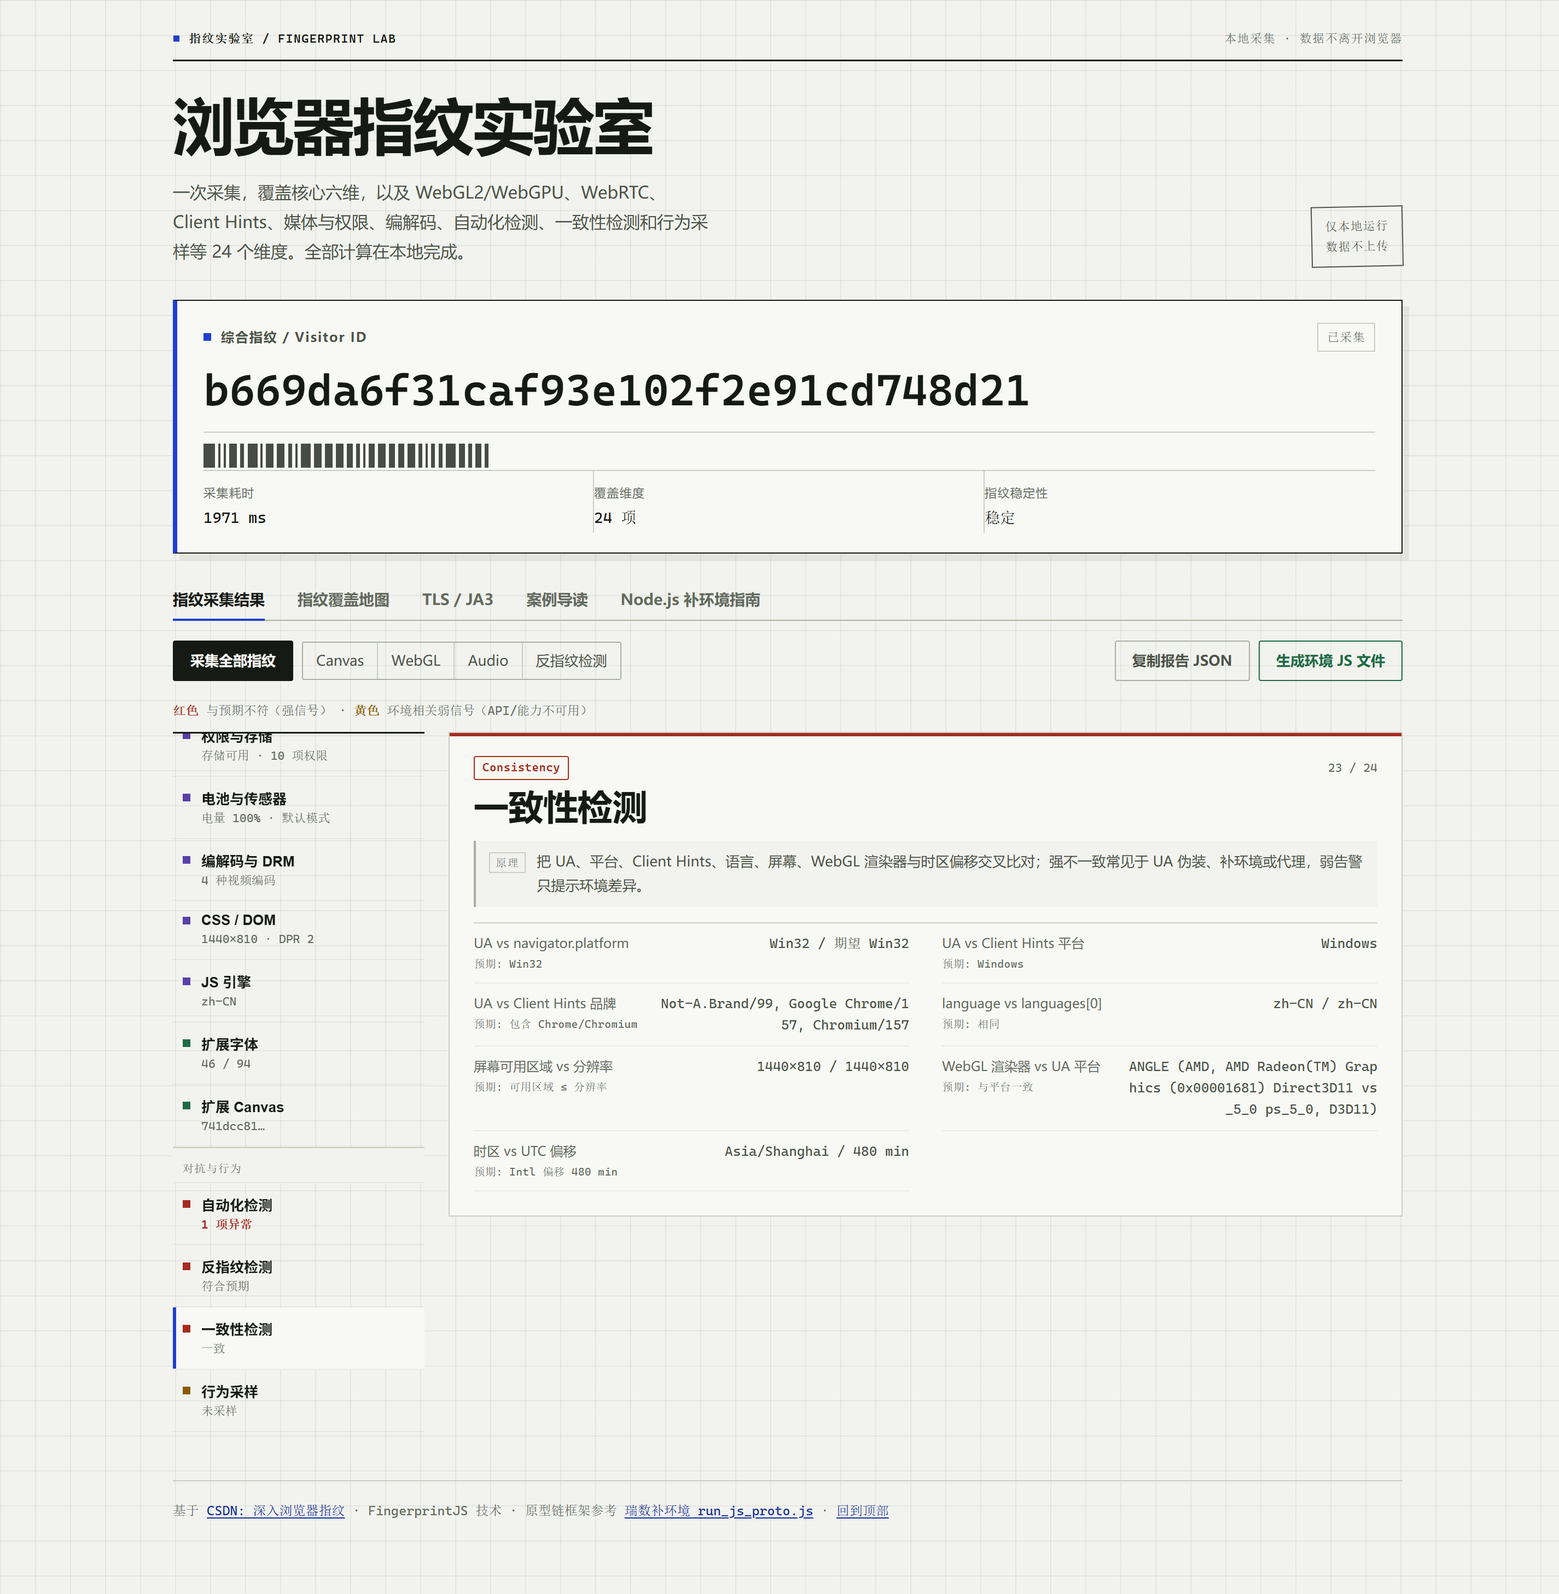
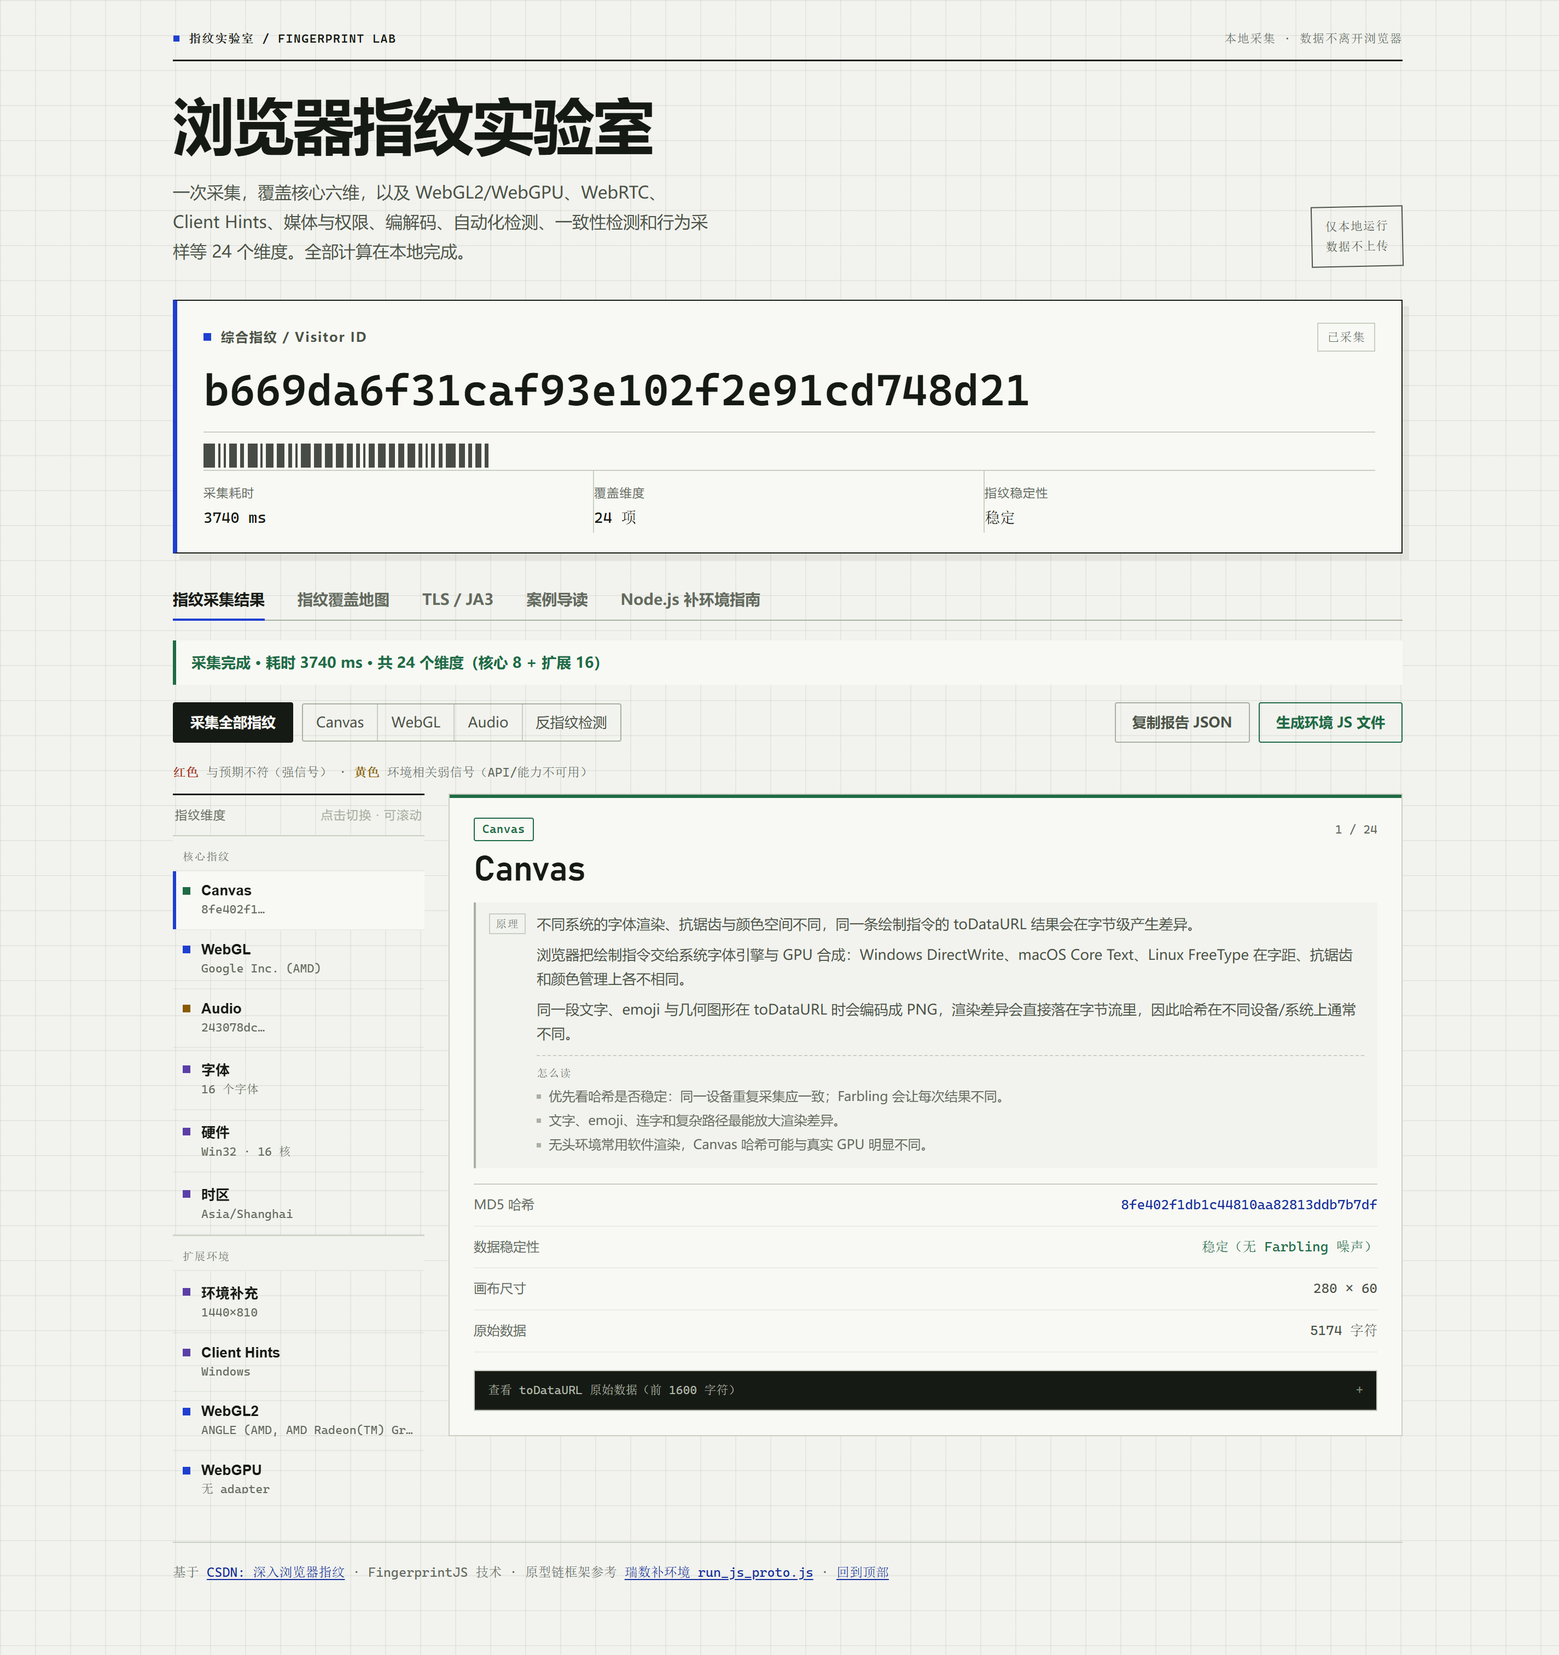
docs(ui): 丰富 24 个维度的原理与读法说明
- 每个维度新增多段技术原理（机制、差异来源、稳定性）
- 增加「怎么读」要点：预期表现、常见异常、与其他信号的交叉校验
- 覆盖 Canvas/WebGL/Audio/字体/硬件/时区、扩展环境、检测、一致性与行为
- 更新页面截图与 README

diff --git a/test_fp.html b/test_fp.html
@@ -209,15 +209,30 @@
     font-weight: 600; letter-spacing: -.01em; margin: 8px 0 10px;
   }
   .principle {
-    display: flex; gap: 10px; align-items: baseline; max-width: none;
+    display: flex; gap: 10px; align-items: flex-start; max-width: none;
     background: var(--paper); border-left: 2px solid var(--rule-2);
-    padding: 8px 12px; margin: 0 0 14px;
+    padding: 9px 12px; margin: 0 0 14px;
     font-size: 13px; line-height: 1.7; color: var(--ink-2);
   }
   .principle-label {
-    flex: 0 0 auto; font-family: var(--mono); font-size: 10px; letter-spacing: .08em;
+    flex: 0 0 auto; margin-top: 1px;
+    font-family: var(--mono); font-size: 10px; letter-spacing: .08em;
     color: var(--ink-3); border: 1px solid var(--rule); padding: 1px 5px; line-height: 1.5;
   }
+  .principle-body { min-width: 0; }
+  .principle-body p { margin: 0; font-size: 13px; line-height: 1.7; color: var(--ink-2); }
+  .principle-body p + p { margin-top: 6px; }
+  .principle-details { margin-top: 8px; padding-top: 7px; border-top: 1px dashed var(--rule); }
+  .principle-details-title {
+    margin-bottom: 3px; font-family: var(--mono); font-size: 10px;
+    letter-spacing: .06em; color: var(--ink-3);
+  }
+  .principle-details ul { list-style: none; padding: 0; margin: 0; }
+  .principle-details li {
+    position: relative; padding-left: 11px; margin-bottom: 3px;
+    font-size: 12px; line-height: 1.6; color: var(--ink-3);
+  }
+  .principle-details li::before { content: ""; position: absolute; left: 0; top: .68em; width: 4px; height: 4px; background: var(--rule-2); }
   .detail-note {
     font-size: 12.5px; line-height: 1.7; color: var(--warn);
     background: rgba(138,90,0,.06); border-left: 2px solid var(--warn);
@@ -1711,12 +1726,278 @@ function rowHtml(row) {
   return `<div class="drow ${row.b ? 'is-bad' : ''}"><dt>${escapeHtml(row.k)}${expected}</dt><dd class="${cls}">${escapeHtml(row.v)}</dd></div>`;
 }
 
+const DIM_EXPLAIN = {
+  canvas: {
+    more: [
+      '浏览器把绘制指令交给系统字体引擎与 GPU 合成：Windows DirectWrite、macOS Core Text、Linux FreeType 在字距、抗锯齿和颜色管理上各不相同。',
+      '同一段文字、emoji 与几何图形在 toDataURL 时会编码成 PNG，渲染差异会直接落在字节流里，因此哈希在不同设备/系统上通常不同。'
+    ],
+    details: [
+      '优先看哈希是否稳定：同一设备重复采集应一致；Farbling 会让每次结果不同。',
+      '文字、emoji、连字和复杂路径最能放大渲染差异。',
+      '无头环境常用软件渲染，Canvas 哈希可能与真实 GPU 明显不同。'
+    ]
+  },
+  webgl: {
+    more: [
+      'getParameter 返回 GPU 厂商/渲染器、纹理/视口上限与扩展集合，这些值由硬件和驱动共同决定。',
+      '高级指纹让 GPU 执行一段顶点/片段着色器，再用 readPixels 读回像素；浮点精度与舍入差异会体现在 RGBA 字节上。'
+    ],
+    details: [
+      'Unmasked Renderer 通常最稳定，扩展列表次之。',
+      'WebGL2 / WebGPU 维度能补充更多上限与 adapter 信息。',
+      '着色器像素为 0,0,0,0 是有效读数，不是空数据；软件渲染才是强异常信号。'
+    ]
+  },
+  audio: {
+    more: [
+      'OfflineAudioContext 用振荡器产生三角波，经过动态压缩器后离线渲染 1 秒波形，不会发声。',
+      '不同系统的音频栈、重采样与浮点实现会让 4500–5000 区间的采样点在小数位上产生差异。'
+    ],
+    details: [
+      '同一设备/浏览器通常稳定；不同平台差异更明显。',
+      '采样窗口避开起始瞬态，减少边界噪声。',
+      '超时或被禁用时会返回空值，需要区分“不可用”和“值为零”。'
+    ]
+  },
+  fonts: {
+    more: [
+      '通过 Canvas measureText 比较目标字体与 fallback 字体的渲染宽度，可以判断某个字体是否已安装。',
+      'Windows、macOS、Linux 的预装字体集不同；Office/Adobe 套件还会额外安装字体，进一步增加区分度。'
+    ],
+    details: [
+      '只检查主字体（逗号前），避免 fallback 字体干扰判断。',
+      '字体列表熵高，但测量结果受浏览器/渲染设置影响。',
+      '扩展字体维度使用 94 个候选补足核心 16 字体之外的信息。'
+    ]
+  },
+  hardware: {
+    more: [
+      'navigator 暴露 CPU 核心数、内存、触点数与平台；单个字段熵不高，组合后用于辅助区分设备。',
+      '这些值也最容易被伪造，因此要和 UA、Client Hints、屏幕、WebGL 等信号交叉校验。'
+    ],
+    details: [
+      'deviceMemory 是约简值（0.25/0.5/1/2/4/8），不是真实内存。',
+      '触点数与 Client Hints 的 mobile 标记可以互相验证。',
+      '平台字段应与 UA/UA-CH 平台保持一致。'
+    ]
+  },
+  timezone: {
+    more: [
+      'IANA 时区、UTC 偏移与语言列表反映系统配置，常被用来推断地理区域和用户偏好。',
+      '站点通常会把时区与 IP/边缘国家、语言、WebRTC 网络信号交叉比对，而不是单看时区。'
+    ],
+    details: [
+      '时区与 UTC 偏移应一致，一致性检测会校验 Intl 与 Date 的偏移。',
+      'VPN 通常改变 IP，但不会自动改变系统时区。',
+      '语言列表的顺序也可能被用于指纹。'
+    ]
+  },
+  environment: {
+    more: [
+      'UA、屏幕、DPR、语言与浏览器暴露的网络信息是最基础的环境信号，适合做交叉校验。',
+      '这些字段当前不参与 core visitorId，只在页面上作为环境补充展示。'
+    ],
+    details: [
+      'Network Information（effectiveType/RTT/downlink）仅 Chromium 系支持。',
+      '屏幕可用区域、DPR 与触点数可以和 Client Hints 对照。'
+    ]
+  },
+  'client-hints': {
+    more: [
+      'User-Agent Client Hints 把 UA 拆成品牌列表、平台、架构、位宽、完整版本等高熵字段。',
+      '品牌列表与导航器平台、UA 字符串往往一起被校验，伪装 UA 但忘了 CH 很容易露馅。'
+    ],
+    details: [
+      '高熵值需要异步调用 getHighEntropyValues。',
+      '非 Chromium 浏览器不支持该 API，不应作为异常。'
+    ]
+  },
+  webgl2: {
+    more: [
+      'WebGL2 暴露比 WebGL1 更多的硬件上限与扩展，仍由 GPU/驱动决定。',
+      '它和 WebGL1、WebGPU 一起看，能更完整地描述图形能力。'
+    ],
+    details: [
+      '不可用不一定是异常：旧浏览器、禁用 GPU 或隐私设置都可能导致。',
+      '重点关注 Unmasked Renderer、最大纹理/3D 纹理与扩展数量。'
+    ]
+  },
+  webgpu: {
+    more: [
+      'WebGPU 的 adapter.info 暴露厂商、架构与设备信息，limits/features 反映计算与渲染能力。',
+      '这是较新的 API，支持率还不高；可用时能提供比 WebGL 更现代的 GPU 画像。'
+    ],
+    details: [
+      'adapter 不可用可能来自无 GPU、headless 或浏览器未启用 WebGPU。',
+      'featureCount 和最大纹理/Buffer 限制可用于区分 GPU 档位。'
+    ]
+  },
+  webrtc: {
+    more: [
+      'RTCPeerConnection 收集 ICE candidate，可能暴露 host、srflx、relay 地址或 mDNS 名称。',
+      '代理只改变 HTTP 出口，WebRTC 可能从旁路泄露真实网络环境，因此常被反爬用于交叉验证。'
+    ],
+    details: [
+      '本页只使用空 STUN 配置，不连接外部服务器。',
+      '候选类型（host / srflx / relay）比单个地址更能说明网络形态。',
+      '候选地址只在本地展示，不会上传。'
+    ]
+  },
+  media: {
+    more: [
+      'enumerateDevices 暴露摄像头、麦克风和扬声器的数量与类型，标签通常需要用户授权。',
+      '设备数量与类型可以补充硬件画像；0 个设备可能是无外设、权限限制或 headless。'
+    ],
+    details: [
+      '设备标签在未授权时为空白，不应视为采集失败。',
+      '结合 User-Agent 与硬件信息判断是否合理。'
+    ]
+  },
+  speech: {
+    more: [
+      'speechSynthesis.getVoices() 返回系统/浏览器可用的 TTS 语音列表。',
+      '语音名称、语言和本地/在线属性由操作系统与浏览器共同决定，可用来区分平台。'
+    ],
+    details: [
+      '语音列表是异步加载的，需要等待 voiceschanged 或超时。',
+      '0 个语音可能来自 headless 或精简系统。'
+    ]
+  },
+  permissions: {
+    more: [
+      'Permissions API 返回权限状态，StorageManager 提供配额与使用量，localStorage 可用性反映隐私设置。',
+      '这些状态组合能辅助识别浏览器配置与隐私模式，但单点熵不高。'
+    ],
+    details: [
+      '查询权限状态不会弹窗；真正申请权限才会。',
+      '隐私模式可能禁用或限制 localStorage 与存储配额。'
+    ]
+  },
+  battery: {
+    more: [
+      'Battery Status API 暴露电量、充电状态、充电剩余时间与放电剩余时间。',
+      '站点常把它作为设备指纹或反自动化信号：非法数值通常意味着补环境或伪造实现；默认插电模式则同时出现在台式机和虚拟机上。'
+    ],
+    details: [
+      '电量应在 0–100%；充电/放电时间应为非负数或 ∞。',
+      '充电中 / 100% / 充电 0s / 放电 ∞ 只做黄色弱提示。',
+      '电量越界或时间为负数会触发红色告警。'
+    ]
+  },
+  codecs: {
+    more: [
+      'canPlayType 反映浏览器/平台对 H.264、HEVC、VP9、AV1、AAC 等编解码器的支持。',
+      'EME 检测进一步暴露 Widevine / PlayReady 等 DRM 能力，可辅助区分设备类型和浏览器发行版。'
+    ],
+    details: [
+      '不支持某种编码不一定是异常，取决于平台和浏览器版本。',
+      'Widevine/PlayReady 结果受安全上下文与平台影响。'
+    ]
+  },
+  css: {
+    more: [
+      'matchMedia 与 CSS.supports 反映渲染引擎能力、显示能力和用户偏好（深色模式、动态范围、指针类型）。',
+      '这些信号稳定但熵有限，更适合作为辅助特征。'
+    ],
+    details: [
+      'prefers-color-scheme、prefers-reduced-motion 等会随用户设置变化。',
+      '指针类型可和触点数、Client Hints mobile 交叉验证。'
+    ]
+  },
+  'js-engine': {
+    more: [
+      'Math、Date、Intl 的边界行为与错误栈格式由 JS 引擎实现决定。',
+      '不同浏览器/运行时版本在这些细节上存在差异，可用于辅助识别引擎与版本。'
+    ],
+    details: [
+      'Math 边界值比常规计算结果更能暴露实现差异。',
+      'Intl 时区/日历/数字系统还能反映系统区域设置。',
+      '仅凭错误栈无法确定版本，应与 UA-CH 等信号组合。'
+    ]
+  },
+  'fonts-expanded': {
+    more: [
+      '在核心 16 字体之外扩大到 94 个候选，覆盖 Windows/macOS/Linux 预装字体以及 Office/Adobe 字体。',
+      '字体安装列表通常稳定且熵高，是设备画像中很有价值的一维。'
+    ],
+    details: [
+      '检测方法仍是 measureText 宽度对比。',
+      '字体越独特，区分度越高，但也越容易暴露真实设备。'
+    ]
+  },
+  'canvas-extra': {
+    more: [
+      '在基础/高级 Canvas 之外增加渐变文字、emoji、混合模式、evenodd 路径等独立画布测试。',
+      '每个测试单独哈希并检查稳定性，扩大渲染差异的覆盖范围。'
+    ],
+    details: [
+      '不同测试对字体、GPU、颜色管理的敏感度不同。',
+      '如果两次渲染不一致，可能是 Farbling 或异步资源导致。'
+    ]
+  },
+  automation: {
+    more: [
+      '站点从显式标记（webdriver）、协议痕迹（CDP/Selenium）、环境线索（Headless/软件渲染/插件）和行为四层识别自动化。',
+      '单点命中不一定是机器人，开发工具、测试环境、隐私插件都可能触发；因此强信号红色、环境相关弱信号黄色。'
+    ],
+    details: [
+      'WebDriver、Headless UA、注入标记和软件渲染是最强信号。',
+      '窗口尺寸、焦点、插件数量属于辅助信号。',
+      '红色行表示与预期值不符，不代表一定是恶意爬虫。'
+    ]
+  },
+  detect: {
+    more: [
+      'Farbling 会让 Canvas 每次输出不同噪声；WebGL debug 拦截会隐藏真实 GPU；UA 精简会固定次要版本号。',
+      '这些是浏览器的隐私保护/反指纹特性，理解它们有助于区分“真实设备差异”和“反指纹噪声”。'
+    ],
+    details: [
+      'Farbling 开启时，Canvas 指纹不稳定。',
+      'WebGL 拦截会让页面拿不到真实 GPU 型号。',
+      'UA 精简在现代 Chrome 中是正常现象，不作为红色告警。'
+    ]
+  },
+  consistency: {
+    more: [
+      '把 UA、Client Hints、navigator.platform、语言、屏幕、WebGL 渲染器和时区偏移交叉比对，专门寻找互相矛盾的信号。',
+      '强不一致通常比单个指纹更有价值：它可能来自 UA 伪装、补环境实现错误、代理或虚拟机。'
+    ],
+    details: [
+      '红色 = 强不一致；黄色 = 环境相关的弱信号。',
+      '例如 UA 说 Windows，但 WebGL 返回 Apple/Metal，这是典型矛盾。',
+      '一致性检查不替代单个指纹，只是增加一层交叉验证。'
+    ]
+  },
+  behavior: {
+    more: [
+      '记录指针移动路径、速度、点击、按键和滚动等行为统计，观察“像不像人”。',
+      '行为风控通常看轨迹的自然不完美（速度变化、停顿、抖动），过于平滑或匀速反而更容易被判定为机器。'
+    ],
+    details: [
+      '采样只保留数量、路径长度和速度，不记录按键内容或坐标明细。',
+      '点击 5 秒采样后与页面交互即可。',
+      '单次行为不足以判定，需要结合轨迹、时序和验证码综合评分。'
+    ]
+  }
+};
+
 function detailHtml(dim, index, total) {
   const rows = dim.rows.map(rowHtml).join('');
   let body = `<dl class="detail-rows ${dim.two ? 'two-col' : ''}">${rows}</dl>`;
   if (dim.side) {
     body = `<div class="detail-columns"><dl class="detail-rows">${rows}</dl>${dim.side}</div>`;
   }
+  const explain = DIM_EXPLAIN[dim.id] || {};
+  const principles = [dim.principle].concat(explain.more || []);
+  const principleBody = principles.map(function(text) {
+    return `<p>${escapeHtml(text)}</p>`;
+  }).join('');
+  const detailList = explain.details && explain.details.length
+    ? `<div class="principle-details"><div class="principle-details-title">怎么读</div><ul>${explain.details.map(function(text) {
+        return `<li>${escapeHtml(text)}</li>`;
+      }).join('')}</ul></div>`
+    : '';
   return `<div class="detail-bar cat-${dim.cat}"></div>
     <div class="detail-inner">
       <div class="detail-top">
@@ -1724,7 +2005,7 @@ function detailHtml(dim, index, total) {
         <span class="detail-count">${index + 1} / ${total}</span>
       </div>
       <h3>${escapeHtml(dim.label)}</h3>
-      <p class="principle"><span class="principle-label">原理</span>${escapeHtml(dim.principle)}</p>
+      <div class="principle"><span class="principle-label">原理</span><div class="principle-body">${principleBody}${detailList}</div></div>
       ${dim.note ? `<p class="detail-note ${dim.alert ? 'is-alert' : ''}">${escapeHtml(dim.note)}</p>` : ''}
       ${body}
       ${dim.extra || ''}

diff --git a/README.md b/README.md
@@ -32,7 +32,7 @@
 - **24 个维度全面覆盖**：核心六维 + WebGL2/WebGPU、WebRTC、Client Hints、媒体/语音、
   权限/存储、电池/传感器、编解码/DRM、CSS/DOM、JS 引擎、扩展字体/Canvas、自动化检测、一致性检测、行为采样
 - **可视化采集页面**（`test_fp.html`）：浏览器打开 → 自动采集 → 分组维度导航 → 一键复制/下载报告
-- **维度导航 + 原理说明**：每个维度附一条技术原理；「指纹覆盖地图」说明 L1–L6 分层与边界
+- **维度导航 + 丰富原理**：每个维度包含多段技术原理与「怎么读」要点；「指纹覆盖地图」说明 L1–L6 分层与边界
 - **案例导读**：19 个案例按 L1–L6 分组，卡片给出「机制 / 排查 / 本项目对应」，并链接到完整案例目录
 - **TLS / JA3 记录**：Workers 边缘 `/api/tls` 返回 TLS 版本/套件/HTTP 协议；本地
   `tools/tls_ja3_capture.py` 纯标准库捕获 ClientHello，输出 JA3 / JA3 hash

diff --git a/README_en.md b/README_en.md
@@ -34,7 +34,7 @@ so headless code emits a fingerprint identical to your real browser.
   automation markers, consistency checks and behavior sampling
 - **Visual collection page** (`test_fp.html`): open in browser → auto-collect → grouped dimension nav →
   one-click copy/download of the report
-- **Dimension nav + principles**: each dimension explains its mechanism; a coverage map documents the L1–L6 layers
+- **Dimension nav + rich explanations**: each dimension includes multi-paragraph principles and "how to read it" notes; a coverage map documents the L1–L6 layers
 - **Case guide**: 19 cases grouped by L1–L6, each card summarizing mechanism / diagnosis / tooling, with links to the full case README
 - **TLS / JA3 recording**: the Workers `/api/tls` endpoint returns TLS version/cipher/HTTP protocol;
   `tools/tls_ja3_capture.py` captures ClientHello locally (stdlib only) and prints JA3 / JA3 hash
